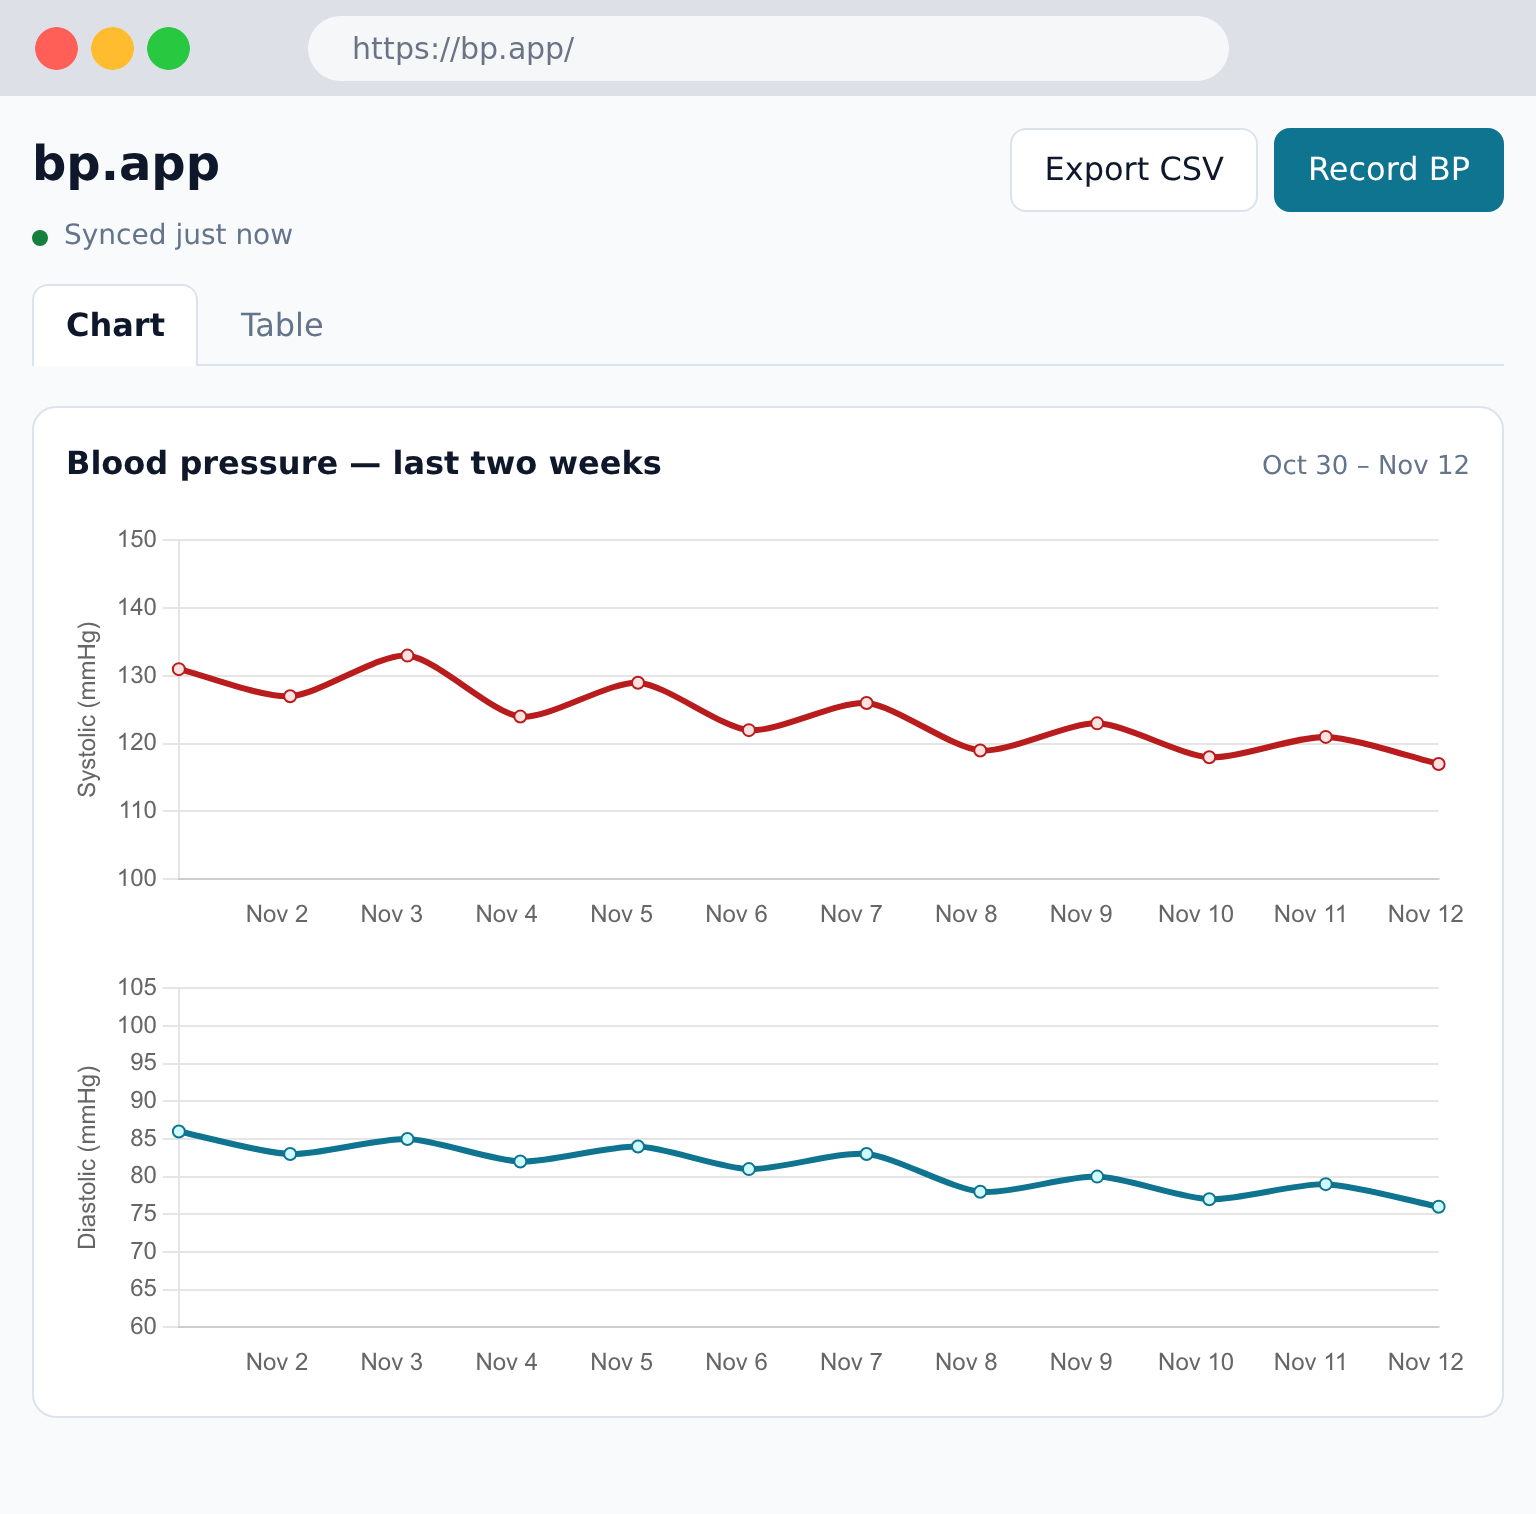
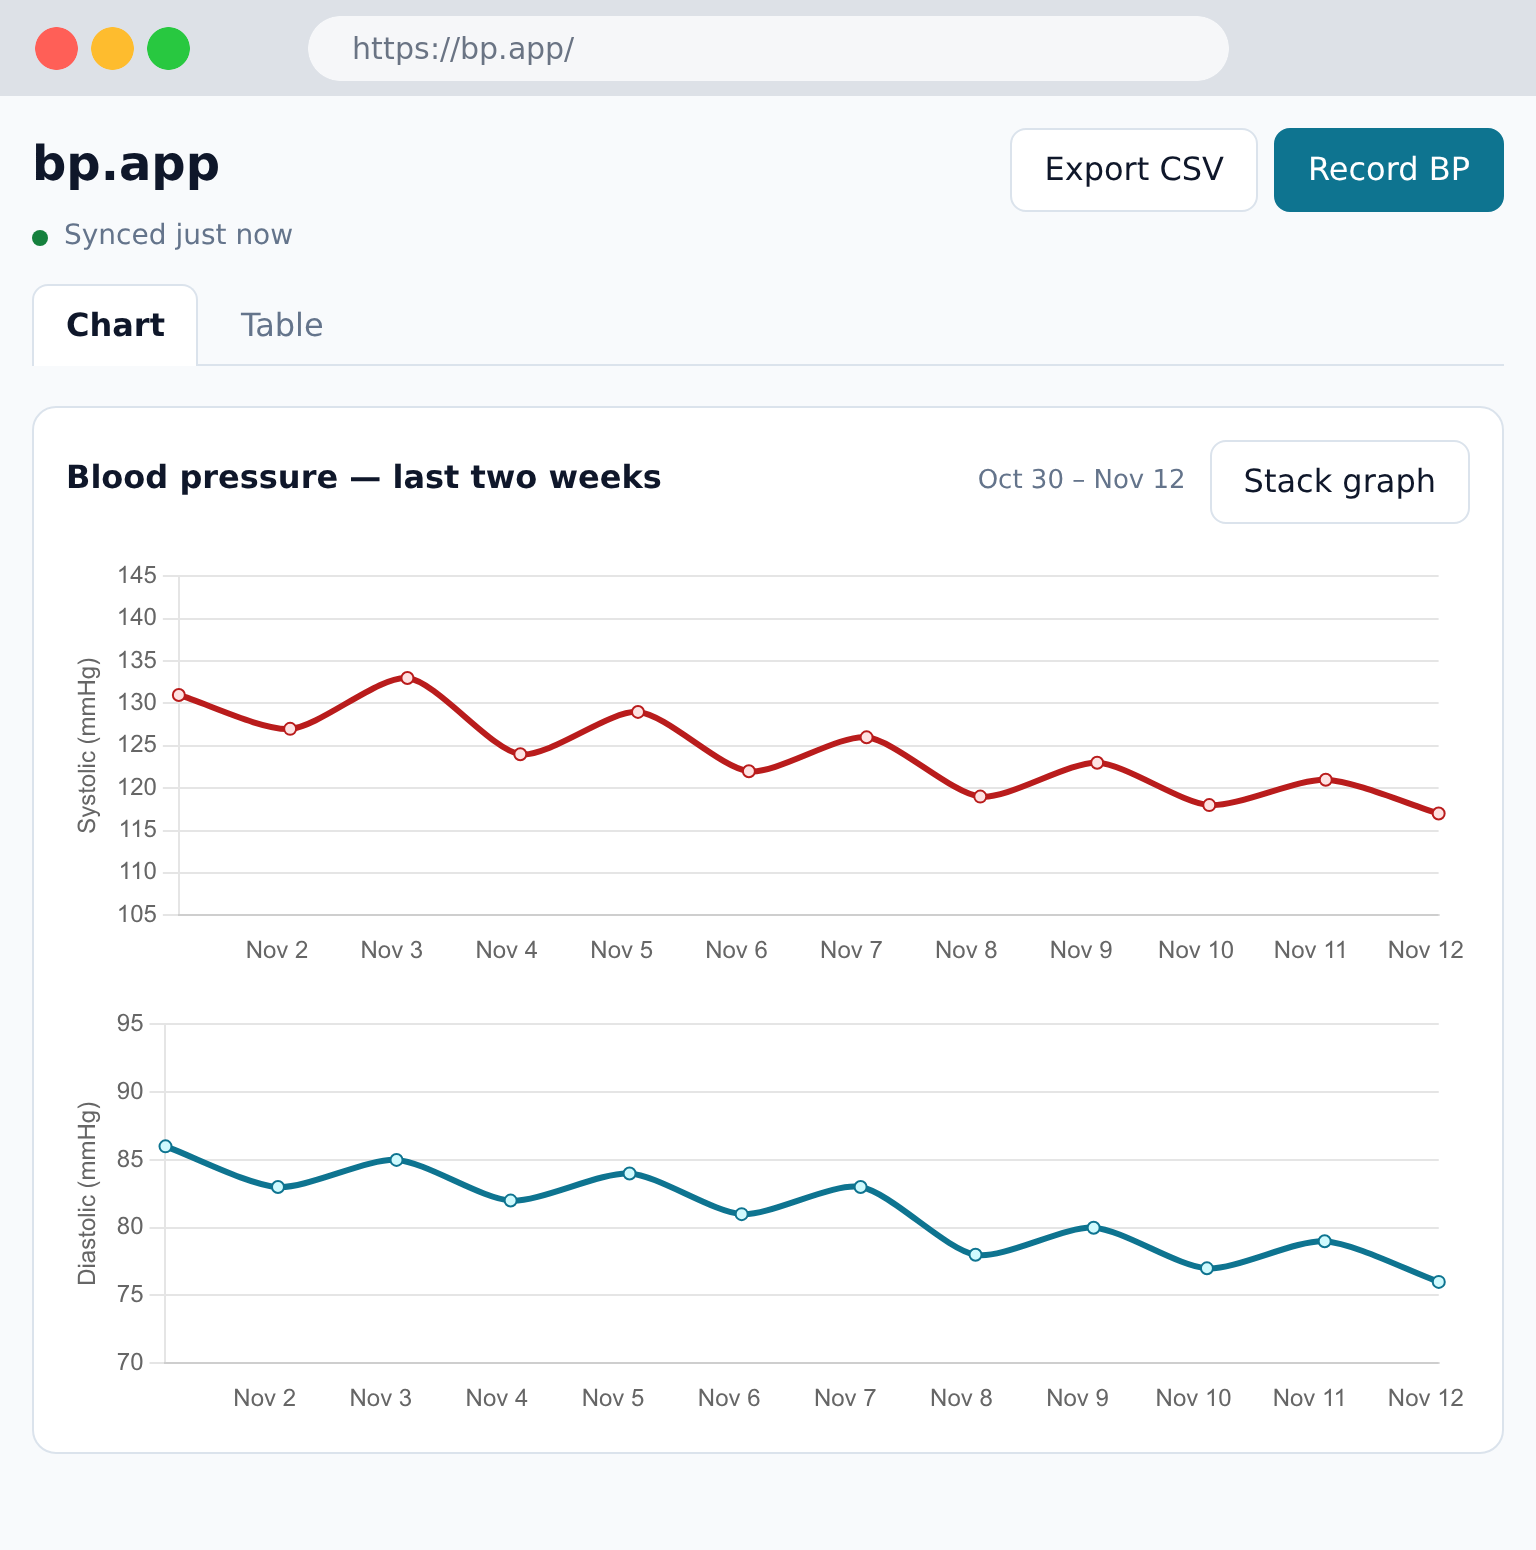
style(chart): per-series split-graph margins
systolic gets a 10-point margin, diastolic a 5-point one; the stacked
combined view keeps the 15-point shared margin

diff --git a/components/BPChart.vue b/components/BPChart.vue
@@ -44,12 +44,15 @@ const SERIES = [
     label: 'Systolic',
     color: '#b91c1c',
     background: '#fee2e2',
+    // Systolic readings get a wider margin than diastolic ones.
+    margin: 10,
   },
   {
     key: 'diastolic',
     label: 'Diastolic',
     color: '#0e7490',
     background: '#cffafe',
+    margin: 5,
   },
 ] as const;
 
@@ -82,10 +85,12 @@ function chartDataFor(key: SeriesKey, label: string, color: string, background: 
 }
 
 // Separate graphs: each series gets its own y-axis window hugging its own
-// data range, which makes pressure changes per value more readable.
-function chartOptionsFor(key: SeriesKey, label: string, legend = false): ChartOptions<'line'> {
+// data range with its own margin, which makes pressure changes per value
+// more readable.
+function chartOptionsFor(key: SeriesKey, label: string, margin: number, legend = false): ChartOptions<'line'> {
   const { min, max } = bpChartBounds(
     valuesFor(key).map((value) => ({ systolic: value, diastolic: value })),
+    margin,
   );
   return {
     responsive: true,
@@ -238,7 +243,7 @@ const stackOptions = computed<ChartOptions<'line'>>(() => {
         >
           <Line
             :data="chartDataFor(series.key, series.label, series.color, series.background)"
-            :options="chartOptionsFor(series.key, series.label)"
+            :options="chartOptionsFor(series.key, series.label, series.margin)"
           />
         </div>
       </template>
